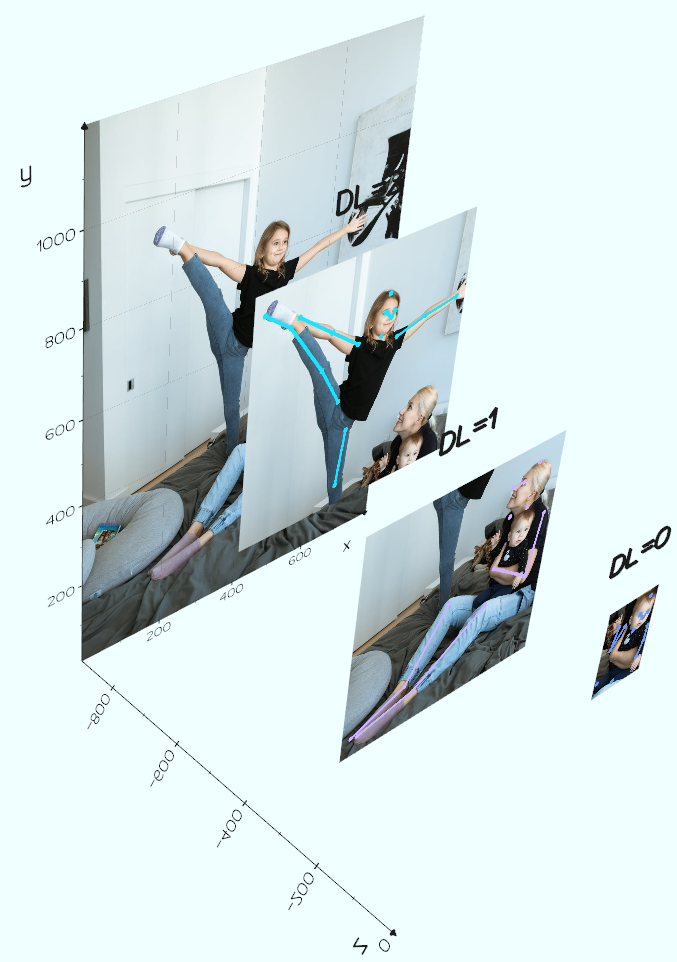
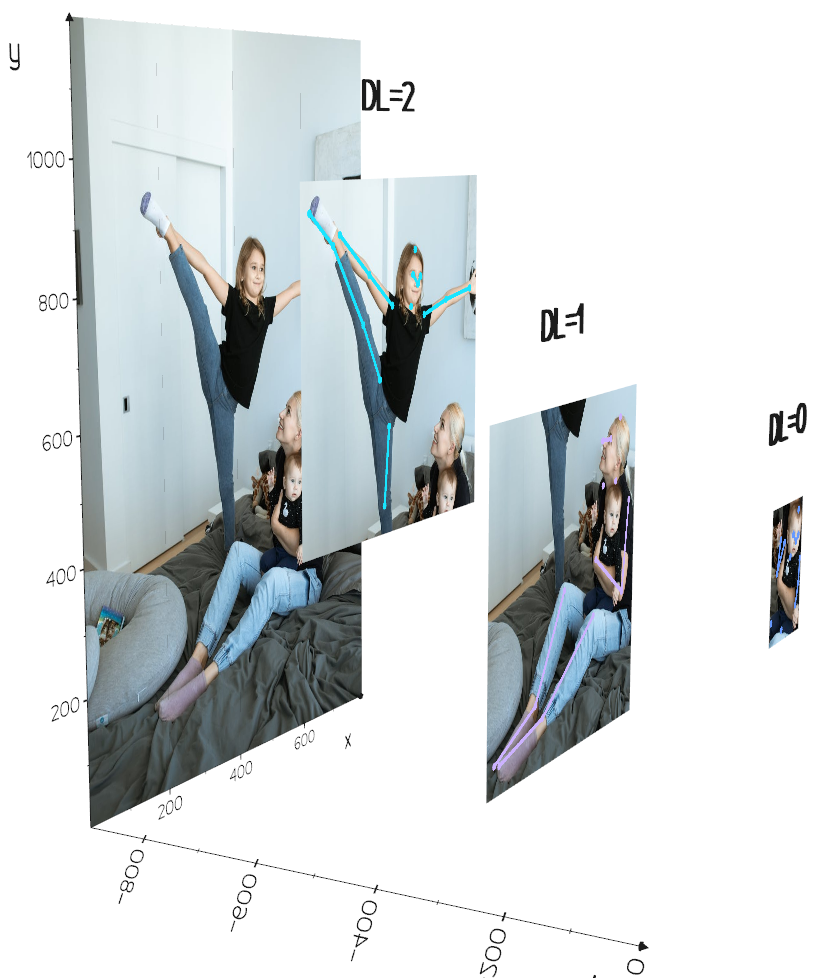
DLs

diff --git a/demo.py b/demo.py
@@ -216,7 +216,7 @@ def visualize_3d(image, packed_annots, interactive_show=True):
     except:
         os.system('pip install vedo')
         import vedo
-    plt = vedo.Plotter(bg=[240,255,255], axes=1, offscreen=not interactive_show)
+    plt = vedo.Plotter(bg=[255,255,255], axes=1, offscreen=not interactive_show)
     kp2ds_info, bboxes, meta_info = packed_annots
     if kp2ds_info[0][0] is None:
         return 
